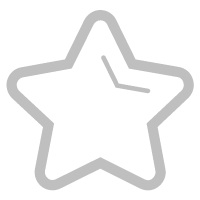
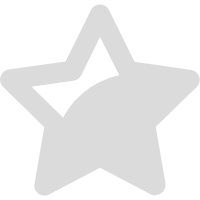
优化了收藏图标，加入了播放功能
播放功能事件可触发，未测试可否播放（原因：可能音乐需放在服务器）

diff --git a/pages/data/HomePageData.js b/pages/data/HomePageData.js
@@ -3,6 +3,11 @@ var initData = [{
     "authorIcon": "https://cn.bing.com/th?id=OIP.Un-kHTeFrNuZ7ZzYUdSx8gHaHa&pid=Api&rs=1",
     "authorName": "新华网",
     "authorDate": "2019/8/31",
+    "music":{
+      "url":"",
+      "title":"献给爱丽丝",
+      "coverImg":""
+    },
     "title": "习近平出席2019年国际篮联篮球世界杯开幕式",
     "articleImg": "http://www.xinhuanet.com/politics/2019-08/30/1124943881_15671849263711n.jpg",
     "articleMinText": "在现场观众倒计时的呼声中，开幕式开始。热情奔放的篮球少年上演活力四射的《我为篮球狂》。32个身着篮球服的少年儿童依次亮相，一一展现印有32个参赛国元素的篮球。",
@@ -14,6 +19,11 @@ var initData = [{
     "authorIcon": "https://cn.bing.com/th?id=OIP.Un-kHTeFrNuZ7ZzYUdSx8gHaHa&pid=Api&rs=1",
     "authorName": "XinHua News",
     "authorDate": "2019/8/31",
+    "music": {
+      "url": "",
+      "title": "献给爱丽丝",
+      "coverImg": ""
+    },
     "title": "Hong Kong's business environment tarnished by protests",
     "articleImg": "http://www.xinhuanet.com/english/2019-09/01/138354497_15672947980541n.jpg",
     "articleMinText": "A passenger takes the Star Ferry from Hong Kong Island to Tsim Sha Tsui in Hong Kong, south China, Aug. 18, 2019.",
@@ -25,6 +35,11 @@ var initData = [{
     "authorIcon": "https://cn.bing.com/th?id=OIP.tdkk7tExnQUltVBT30akjgHaHa&pid=Api&rs=1",
     "authorName": "NHK",
     "authorDate": "2019/8/31",
+    "music": {
+      "url": "",
+      "title": "献给爱丽丝",
+      "coverImg": ""
+    },
     "title": "エアバス最新鋭機「Ａ350 」 国内初の就航 羽田ー福岡路線",
     "articleImg": "http://img0.imgtn.bdimg.com/it/u=3663479954,493959094&fm=26&gp=0.jpg",
     "articleMinText": "ヨーロッパの大手航空機メーカー「エアバス」の最新鋭の旅客機、Ａ350型機の運航が１日から羽田と福岡を結ぶ路線で始まりました。",

diff --git a/pages/HomePage/PageDetail/PageDetail.js b/pages/HomePage/PageDetail/PageDetail.js
@@ -2,7 +2,8 @@ var newsData = require("../../data/HomePageData.js") //引入数据
 
 Page({
   data: {
-    newsid: ""
+    newsid: "",
+    isPlaying: false
   },
 
   onLoad: function(options) {
@@ -55,6 +56,15 @@ Page({
         duration: 700,
         mask: true
       })
+  },
+
+  playerTap: function(event) {
+    console.log("用户点击了播放按钮");
+    wx.playBackgroundAudio({
+      dataUrl: '../../audios/ABC - 欧阳靖.mp3',
+      title:'ABC - 欧阳靖.mp3',
+      coverImgUrl:""
+    })
   },
 
   onShareAppMessage: function() {
